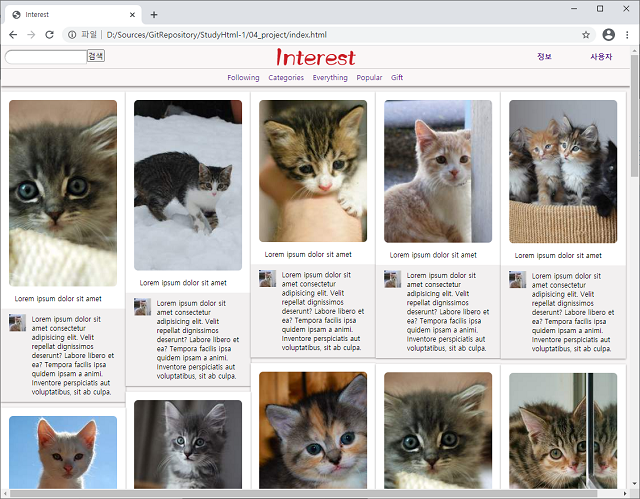
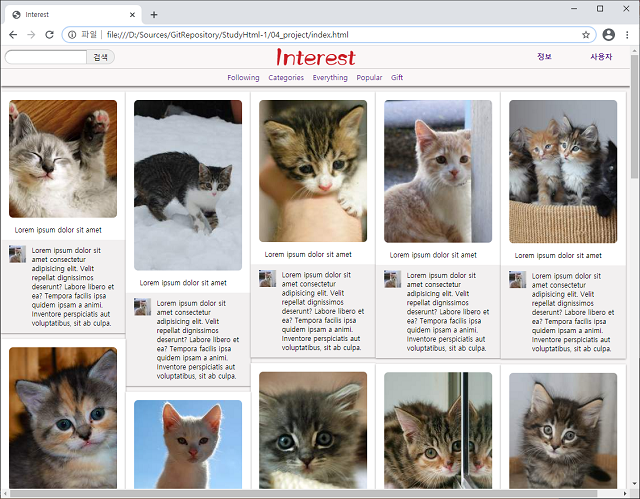
프로젝트 결과화면 추가, 버그 수정

Changed region(s): [[0.0, 0.1804, 1.0, 1.0], [0.125, 0.0601, 0.5625, 0.1503], [0.0938, 0.0601, 0.125, 0.0902]]

diff --git a/04_project/css/form.css b/04_project/css/form.css
@@ -36,7 +36,7 @@
     z-index: 9999;
 }
 
-.outer-menu:hover { background: #E1DFDF;}
+.outer-menu:hover { background-color: #E1DFDF;}
 
 .inner-menu{
     display: none;
@@ -53,7 +53,7 @@
     z-index: 5000;
 }
 
-.inner-menu a:hover{ background: #E1DFDF; }
+.inner-menu a:hover{ background-color: #E1DFDF; }
 
 
 /* 메인 내비게이션 */
@@ -61,7 +61,7 @@
     height: 30px;
     background: #faf7f7;
     border-top: 1px solid #cfcaca;
-    box-shadow: 1px 3px 3px rgba(34, 25, 25, 0.4);
+    box-shadow: 1px 3px 3px rgba(34, 25, 25, 0.5);
 }
 
 #main-navigation > ul {
@@ -79,7 +79,7 @@
 }
 
 #main-navigation > ul > li:hover{
-    background: #E1DFDF;
+    background-color: #E1DFDF;
     border-radius: 2px;
 }
 
@@ -100,15 +100,16 @@
 }
 
 .input-search:focus{
-    box-shadow: inset 0 1px 1px rgba(0,0,0,0.5);
+    box-shadow: inset 0 1px 1px rgba(0, 0, 0, 0.5);
     outline: 0;
-    border-color: rgba(82,168,236,0.8);
+    border-color: rgba(82, 168, 236, 0.8);
 }
 
-.input-submit{
+.input-search-submit{
     display: block;
     float: left;
-    width: 50px; height: 26px;
+    width: 50px;
+    height: 26px;
     border-radius: 0 15px 15px 0;
     border: 1px solid #cccccc;
     margin-left: -1px;

diff --git a/04_project/index.html b/04_project/index.html
@@ -133,7 +133,7 @@
         <!-- 페이퍼 복사 여러번 해야함-->
         <div class = "paper">
             <div class = "paper-holder">
-                <a><img width="190" src="https://placekitten.com/190/328"></a>
+                <a><img width="190" src="https://placekitten.com/190/207"></a>
             </div>
             <p class = "paper-description">Lorem ipsum dolor sit amet</p>
             <div class ="paper-content">
